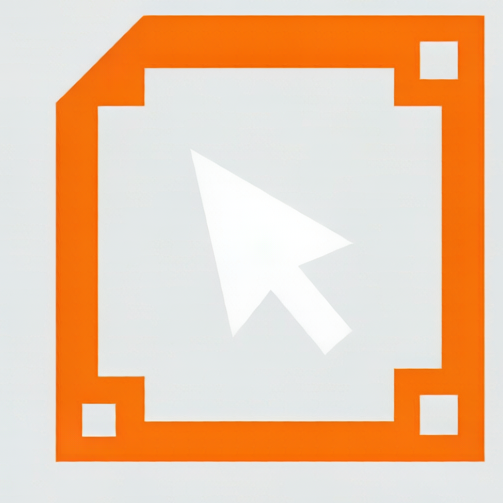
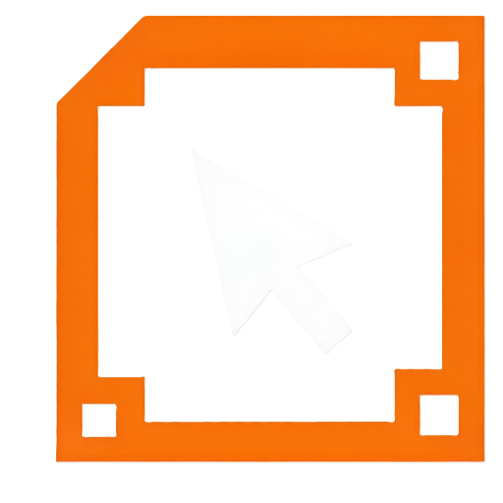
修复了不能正常显示托盘图标的问题

diff --git a/tools/png2ico.py b/tools/png2ico.py
@@ -1,0 +1,61 @@
+#!/usr/bin/env python3
+"""
+PNG 转 ICO 转换工具
+用法: python png2ico.py <PNG文件名>
+输出: 在当前工作目录生成同名的 .ico 文件
+"""
+
+import sys
+import os
+
+try:
+    from PIL import Image
+except ImportError:
+    print("错误: 未安装 Pillow 库，请运行: pip install Pillow")
+    sys.exit(1)
+
+
+def convert_png_to_ico(input_path):
+    """将 PNG 转换为 ICO，输出到当前工作目录"""
+    # 检查输入文件是否存在
+    if not os.path.isfile(input_path):
+        print(f"错误: 文件 '{input_path}' 不存在")
+        sys.exit(1)
+
+    # 打开图片
+    try:
+        img = Image.open(input_path)
+    except Exception as e:
+        print(f"无法打开图片: {e}")
+        sys.exit(1)
+
+    # 转为 RGBA 模式（支持透明通道）
+    if img.mode != 'RGBA':
+        img = img.convert('RGBA')
+
+    # 生成输出路径（当前工作目录 + 同名 .ico）
+    base_name = os.path.splitext(os.path.basename(input_path))[0]
+    output_path = os.path.join(os.getcwd(), base_name + ".ico")
+
+    # 常用 ICO 尺寸（Windows 图标通常包含多个尺寸）
+    sizes = [
+        (16, 16), (24, 24), (32, 32),
+        (48, 48), (64, 64), (128, 128),
+        (256, 256)
+    ]
+
+    # 保存为 ICO
+    try:
+        img.save(output_path, format='ICO', sizes=sizes)
+        print(f"✅ 转换成功: {output_path}")
+    except Exception as e:
+        print(f"保存 ICO 失败: {e}")
+        sys.exit(1)
+
+
+if __name__ == "__main__":
+    if len(sys.argv) != 2:
+        print("用法: python png2ico.py <PNG文件名>")
+        sys.exit(1)
+
+    convert_png_to_ico(sys.argv[1])

diff --git a/src/base.cpp b/src/base.cpp
@@ -109,7 +109,13 @@ namespace core {
 
         void initTray(){
             using namespace Tray;
-			std::string iconPath = appPath + "/files/icon/icon.png";
+#ifdef _WIN32
+            // 设置托盘图标为应用程序图标
+            std::string iconPath = appPath + "/files/img/icon.ico";
+#else
+			std::string iconPath = appPath + "/files/img/icon.png";
+#endif
+            Log.level(Level::INFO) << "Tray icon path: " << iconPath << op::endl;
 			::Tray::Tray tray("screen-shot", iconPath);
 			tray.addEntry(Button(utf82gbk("tray.exit"_lang), [&]() {
 				tray.exit();
